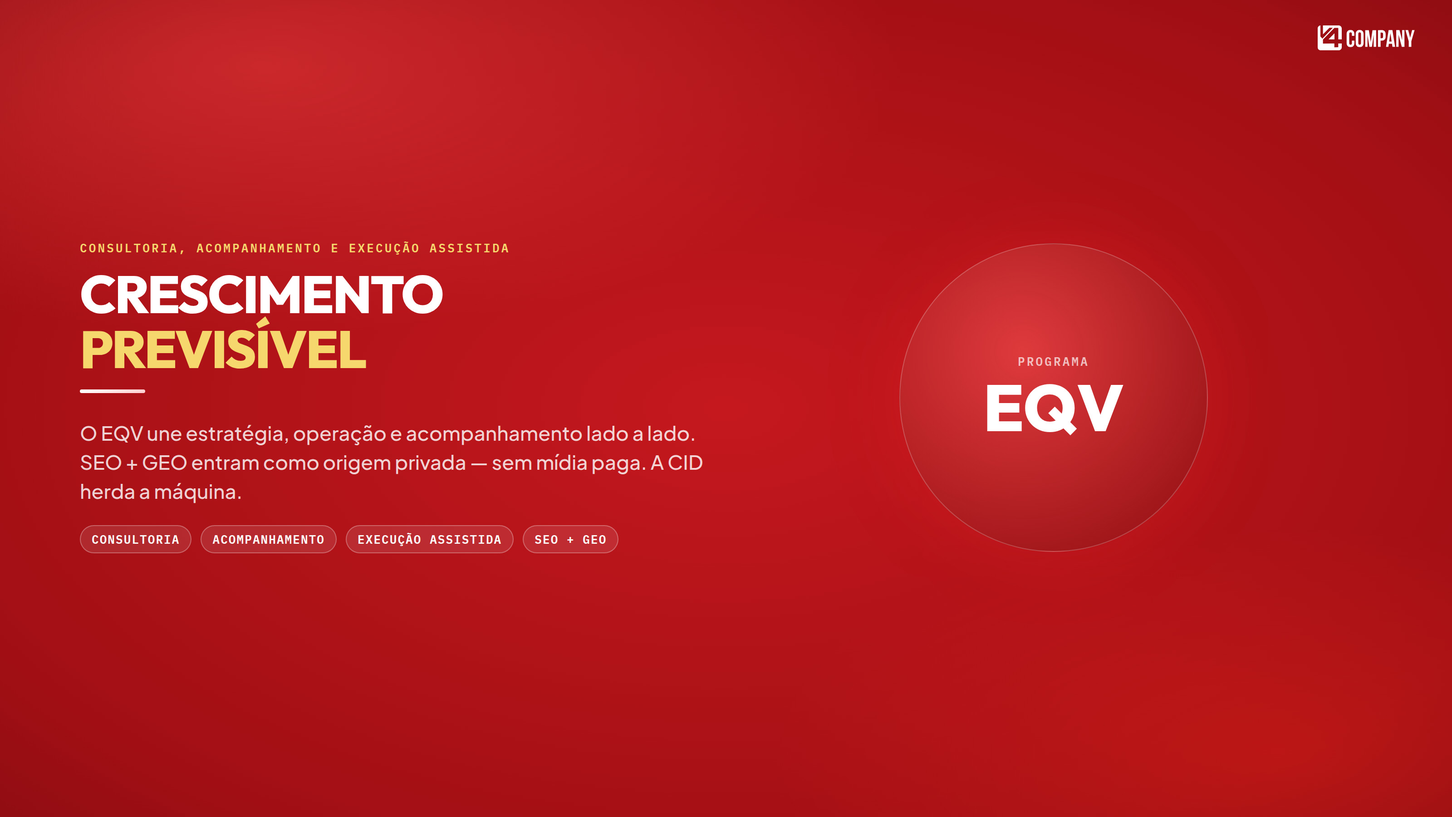
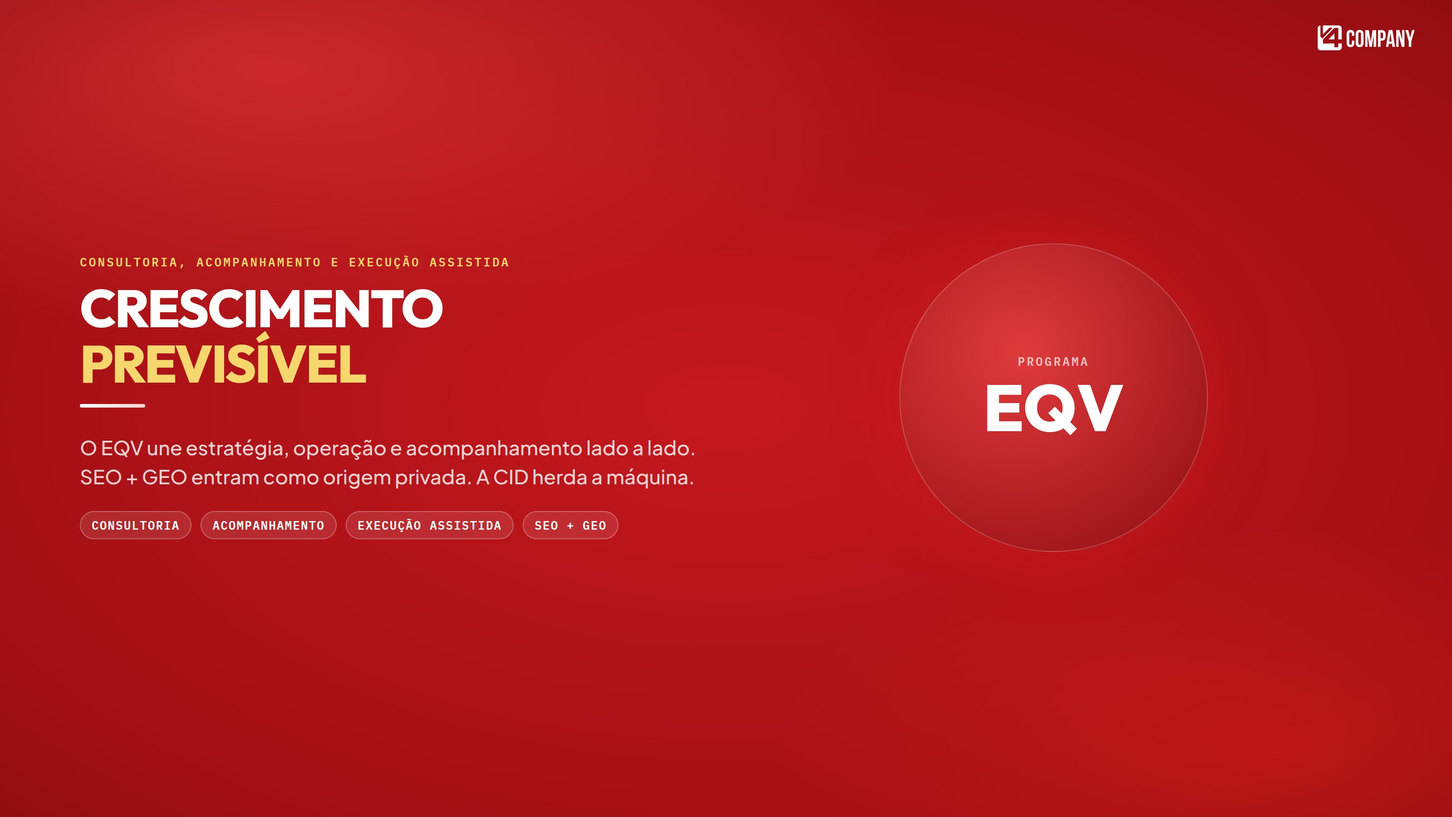
Remove paid-media mentions from the CID client deck.
Drop copy that told the client they do not invest in ads; recapture the affected slides.

Changed region(s): [[0.0312, 0.28, 0.5, 0.6844]]

diff --git a/cid/slides.html b/cid/slides.html
@@ -191,7 +191,7 @@
         <svg class="v4-mark" fill="white" xmlns="http://www.w3.org/2000/svg" viewBox="0 0 77 20"><path fill="#fff" d="M33.023 3.575c-2.001.003-3.093 1.21-3.09 3.32l.008 6.858c.003 2.11 1.098 3.315 3.1 3.312 2-.003 3.092-1.21 3.09-3.32l-.009-6.858c-.003-2.11-1.097-3.315-3.099-3.312zm.015 11.606c-.649.001-1.057-.356-1.058-1.298l-.009-7.122c-.001-.942.406-1.3 1.055-1.302.648 0 1.057.357 1.058 1.299l.009 7.122c.001.942-.407 1.3-1.055 1.301zm-6.1-3.176l.002 1.884c.001.942-.406 1.282-1.055 1.283-.648 0-1.056-.338-1.058-1.28l-.009-7.122c-.001-.942.406-1.3 1.055-1.302.648 0 1.057.357 1.058 1.299l.002 1.413 1.927-.002-.002-1.281c-.002-2.11-1.041-3.315-3.043-3.313-2 .003-3.037 1.21-3.034 3.32l.008 6.859c.003 2.11 1.042 3.314 3.043 3.312 2.002-.003 3.038-1.21 3.035-3.32l-.002-1.752-1.927.002zM13.055 6.352L8.68 10.813c-.06.062-.017.166.067.166l4.382-.006a.096.096 0 00.096-.097l-.006-4.456c0-.087-.103-.13-.163-.068zm5.862 7.88l-2.687.004a.035.035 0 00-.035.035l.004 2.879c0 .02-.015.035-.035.035l-3.01.004a.035.035 0 01-.034-.035l-.004-2.879a.035.035 0 00-.034-.035l-8.796.012a.141.141 0 01-.14-.142l-.003-2.624v-.004a.795.795 0 01.223-.588l8.758-8.928a.035.035 0 01.025-.01l2.846-.004c.005 0 .009.001.014.003a.367.367 0 01.216.348l.01 8.677c0 .019.017.035.036.035l2.641-.004a.035.035 0 00.035-.035l-.011-8.5c-.002-1.364-1.1-2.478-2.442-2.476L4.18.016a.035.035 0 00-.034.036l.008 6.856c0 .031.037.047.06.025l4.994-5.064a.034.034 0 01.024-.01l2.603-.003c.03 0 .046.037.025.06l-8.118 8.41a.034.034 0 01-.049 0l-1.529-1.55a.036.036 0 01-.01-.026L2.143.074A.035.035 0 002.104.04C.976.185.086 1.131 0 2.294v5.972l.011 8.9a2.48 2.48 0 001.937 2.424h14.974c1.15-.199 2.034-1.224 2.032-2.448l-.003-2.873a.035.035 0 00-.035-.036zM66.47 3.682l.01 7.895-2.104-7.892-2.557.003.017 13.19 1.834-.003-.012-9.553 2.55 9.55 2.094-.004-.016-13.188-1.816.002zm-23.33.031l-1.378 9.366-1.513-9.362-2.835.003.017 13.19 1.779-.003-.012-9.327 1.532 9.325 1.927-.003 1.396-9.46.012 9.458 1.928-.002-.017-13.19-2.835.005h-.001zm33.133-.043l-1.946.002-1.549 6.013-1.564-6.009-2.131.003 2.587 8.814.005 4.371 2.039-.003-.006-4.37 2.565-8.821zm-20.44.026l-2.058 13.192 1.871-.003.35-2.393 2.501-.003.355 2.392 2.057-.003-2.092-13.186-2.983.004zm.42 9.005l.974-6.67.99 6.668-1.964.002zm-5.793-8.998l-3.002.004.017 13.189 2.038-.003-.006-4.955.964-.002c2.038-.002 3.037-1.153 3.035-3.263l-.003-1.715c-.002-2.11-1.005-3.258-3.043-3.255zm.008 6.35h-.964L49.5 5.589l.964-.001c.648-.001 1.001.3 1.002 1.242l.003 1.978c.001.942-.35 1.245-1 1.245z"/></svg>
         <p class="cover-client">CID — Clínica de Serviços Médicos &nbsp;×&nbsp; V4 Company</p>
         <h1 style="margin-top:48px;max-width:1200px;">Empresa que <span class="gold">Vende</span></h1>
-        <p class="cover-sub">Consultoria, acompanhamento e execução assistida + origem orgânica (SEO + GEO) — um ciclo de 6 meses para a CID vender com método, sem verba de mídia.</p>
+        <p class="cover-sub">Consultoria, acompanhamento e execução assistida + origem orgânica (SEO + GEO) — um ciclo de 6 meses para a CID vender com método.</p>
         <div class="process-bar">
           <span>Consultoria</span>
           <span>Acompanhamento</span>
@@ -207,7 +207,7 @@
             <p class="eyebrow">Consultoria, acompanhamento e execução assistida</p>
             <h2>CRESCIMENTO<br><span class="gold">PREVISÍVEL</span></h2>
             <div class="line"></div>
-            <p class="lead">O EQV une estratégia, operação e acompanhamento lado a lado. SEO + GEO entram como origem privada — sem mídia paga. A CID herda a máquina.</p>
+            <p class="lead">O EQV une estratégia, operação e acompanhamento lado a lado. SEO + GEO entram como origem privada. A CID herda a máquina.</p>
             <div class="tags"><i>Consultoria</i><i>Acompanhamento</i><i>Execução assistida</i><i>SEO + GEO</i></div>
           </div>
           <div class="bubble"><div><div class="l">Programa</div><div class="e">EQV</div></div></div>
@@ -218,7 +218,7 @@
         <svg class="v4-mark" fill="white" xmlns="http://www.w3.org/2000/svg" viewBox="0 0 77 20"><path fill="#fff" d="M33.023 3.575c-2.001.003-3.093 1.21-3.09 3.32l.008 6.858c.003 2.11 1.098 3.315 3.1 3.312 2-.003 3.092-1.21 3.09-3.32l-.009-6.858c-.003-2.11-1.097-3.315-3.099-3.312zm.015 11.606c-.649.001-1.057-.356-1.058-1.298l-.009-7.122c-.001-.942.406-1.3 1.055-1.302.648 0 1.057.357 1.058 1.299l.009 7.122c.001.942-.407 1.3-1.055 1.301zm-6.1-3.176l.002 1.884c.001.942-.406 1.282-1.055 1.283-.648 0-1.056-.338-1.058-1.28l-.009-7.122c-.001-.942.406-1.3 1.055-1.302.648 0 1.057.357 1.058 1.299l.002 1.413 1.927-.002-.002-1.281c-.002-2.11-1.041-3.315-3.043-3.313-2 .003-3.037 1.21-3.034 3.32l.008 6.859c.003 2.11 1.042 3.314 3.043 3.312 2.002-.003 3.038-1.21 3.035-3.32l-.002-1.752-1.927.002zM13.055 6.352L8.68 10.813c-.06.062-.017.166.067.166l4.382-.006a.096.096 0 00.096-.097l-.006-4.456c0-.087-.103-.13-.163-.068zm5.862 7.88l-2.687.004a.035.035 0 00-.035.035l.004 2.879c0 .02-.015.035-.035.035l-3.01.004a.035.035 0 01-.034-.035l-.004-2.879a.035.035 0 00-.034-.035l-8.796.012a.141.141 0 01-.14-.142l-.003-2.624v-.004a.795.795 0 01.223-.588l8.758-8.928a.035.035 0 01.025-.01l2.846-.004c.005 0 .009.001.014.003a.367.367 0 01.216.348l.01 8.677c0 .019.017.035.036.035l2.641-.004a.035.035 0 00.035-.035l-.011-8.5c-.002-1.364-1.1-2.478-2.442-2.476L4.18.016a.035.035 0 00-.034.036l.008 6.856c0 .031.037.047.06.025l4.994-5.064a.034.034 0 01.024-.01l2.603-.003c.03 0 .046.037.025.06l-8.118 8.41a.034.034 0 01-.049 0l-1.529-1.55a.036.036 0 01-.01-.026L2.143.074A.035.035 0 002.104.04C.976.185.086 1.131 0 2.294v5.972l.011 8.9a2.48 2.48 0 001.937 2.424h14.974c1.15-.199 2.034-1.224 2.032-2.448l-.003-2.873a.035.035 0 00-.035-.036zM66.47 3.682l.01 7.895-2.104-7.892-2.557.003.017 13.19 1.834-.003-.012-9.553 2.55 9.55 2.094-.004-.016-13.188-1.816.002zm-23.33.031l-1.378 9.366-1.513-9.362-2.835.003.017 13.19 1.779-.003-.012-9.327 1.532 9.325 1.927-.003 1.396-9.46.012 9.458 1.928-.002-.017-13.19-2.835.005h-.001zm33.133-.043l-1.946.002-1.549 6.013-1.564-6.009-2.131.003 2.587 8.814.005 4.371 2.039-.003-.006-4.37 2.565-8.821zm-20.44.026l-2.058 13.192 1.871-.003.35-2.393 2.501-.003.355 2.392 2.057-.003-2.092-13.186-2.983.004zm.42 9.005l.974-6.67.99 6.668-1.964.002zm-5.793-8.998l-3.002.004.017 13.189 2.038-.003-.006-4.955.964-.002c2.038-.002 3.037-1.153 3.035-3.263l-.003-1.715c-.002-2.11-1.005-3.258-3.043-3.255zm.008 6.35h-.964L49.5 5.589l.964-.001c.648-.001 1.001.3 1.002 1.242l.003 1.978c.001.942-.35 1.245-1 1.245z"/></svg>
         <p class="eyebrow">Empresa que Vende</p>
         <h2>O PROGRAMA</h2>
-        <p class="lead" style="margin-bottom:28px;"><span class="gold">5 pilares</span> que compõem o Empresa que Vende — na CID, a frente de aquisição é SEO + GEO, não mídia paga.</p>
+        <p class="lead" style="margin-bottom:28px;"><span class="gold">5 pilares</span> que compõem o Empresa que Vende — na CID, a frente de aquisição é SEO + GEO.</p>
         <div class="grid-5 pillars">
           <article class="card"><div class="num">01</div><h3>Diagnóstico contínuo</h3><p>Maturidade GTM monitorada. Gargalos identificados a cada ciclo, sem achismo.</p></article>
           <article class="card"><div class="num">02</div><h3>Consultoria estratégica</h3><p><strong style="color:#fff;">1h/mês com consultor V4:</strong> define prioridades e aloca os créditos do squad.</p></article>
@@ -304,7 +304,7 @@
 
       <section class="slide light" data-title="SEO">
         <svg class="v4-mark" fill="#e50914" xmlns="http://www.w3.org/2000/svg" viewBox="0 0 77 20"><path fill="#e50914" d="M33.023 3.575c-2.001.003-3.093 1.21-3.09 3.32l.008 6.858c.003 2.11 1.098 3.315 3.1 3.312 2-.003 3.092-1.21 3.09-3.32l-.009-6.858c-.003-2.11-1.097-3.315-3.099-3.312zm.015 11.606c-.649.001-1.057-.356-1.058-1.298l-.009-7.122c-.001-.942.406-1.3 1.055-1.302.648 0 1.057.357 1.058 1.299l.009 7.122c.001.942-.407 1.3-1.055 1.301zm-6.1-3.176l.002 1.884c.001.942-.406 1.282-1.055 1.283-.648 0-1.056-.338-1.058-1.28l-.009-7.122c-.001-.942.406-1.3 1.055-1.302.648 0 1.057.357 1.058 1.299l.002 1.413 1.927-.002-.002-1.281c-.002-2.11-1.041-3.315-3.043-3.313-2 .003-3.037 1.21-3.034 3.32l.008 6.859c.003 2.11 1.042 3.314 3.043 3.312 2.002-.003 3.038-1.21 3.035-3.32l-.002-1.752-1.927.002zM13.055 6.352L8.68 10.813c-.06.062-.017.166.067.166l4.382-.006a.096.096 0 00.096-.097l-.006-4.456c0-.087-.103-.13-.163-.068zm5.862 7.88l-2.687.004a.035.035 0 00-.035.035l.004 2.879c0 .02-.015.035-.035.035l-3.01.004a.035.035 0 01-.034-.035l-.004-2.879a.035.035 0 00-.034-.035l-8.796.012a.141.141 0 01-.14-.142l-.003-2.624v-.004a.795.795 0 01.223-.588l8.758-8.928a.035.035 0 01.025-.01l2.846-.004c.005 0 .009.001.014.003a.367.367 0 01.216.348l.01 8.677c0 .019.017.035.036.035l2.641-.004a.035.035 0 00.035-.035l-.011-8.5c-.002-1.364-1.1-2.478-2.442-2.476L4.18.016a.035.035 0 00-.034.036l.008 6.856c0 .031.037.047.06.025l4.994-5.064a.034.034 0 01.024-.01l2.603-.003c.03 0 .046.037.025.06l-8.118 8.41a.034.034 0 01-.049 0l-1.529-1.55a.036.036 0 01-.01-.026L2.143.074A.035.035 0 002.104.04C.976.185.086 1.131 0 2.294v5.972l.011 8.9a2.48 2.48 0 001.937 2.424h14.974c1.15-.199 2.034-1.224 2.032-2.448l-.003-2.873a.035.035 0 00-.035-.036zM66.47 3.682l.01 7.895-2.104-7.892-2.557.003.017 13.19 1.834-.003-.012-9.553 2.55 9.55 2.094-.004-.016-13.188-1.816.002zm-23.33.031l-1.378 9.366-1.513-9.362-2.835.003.017 13.19 1.779-.003-.012-9.327 1.532 9.325 1.927-.003 1.396-9.46.012 9.458 1.928-.002-.017-13.19-2.835.005h-.001zm33.133-.043l-1.946.002-1.549 6.013-1.564-6.009-2.131.003 2.587 8.814.005 4.371 2.039-.003-.006-4.37 2.565-8.821zm-20.44.026l-2.058 13.192 1.871-.003.35-2.393 2.501-.003.355 2.392 2.057-.003-2.092-13.186-2.983.004zm.42 9.005l.974-6.67.99 6.668-1.964.002zm-5.793-8.998l-3.002.004.017 13.189 2.038-.003-.006-4.955.964-.002c2.038-.002 3.037-1.153 3.035-3.263l-.003-1.715c-.002-2.11-1.005-3.258-3.043-3.255zm.008 6.35h-.964L49.5 5.589l.964-.001c.648-.001 1.001.3 1.002 1.242l.003 1.978c.001.942-.35 1.245-1 1.245z"/></svg>
-        <p class="eyebrow">Sessão 02 · SEO + GEO · origem complementar sem mídia</p>
+        <p class="eyebrow">Sessão 02 · SEO + GEO · origem complementar</p>
         <h2>O SEO É</h2>
         <div class="line"></div>
         <div class="grid-2">
@@ -321,12 +321,12 @@
             <ul class="check">
               <li>Canal de aquisição orgânica — origem privada, fora de licitação e indicação</li>
               <li>Construção de autoridade no longo prazo</li>
-              <li>Redução da dependência de mídia paga — ativo, sem pagar clique</li>
+              <li>Canal próprio — ativo da empresa, que permanece depois do ciclo</li>
             </ul>
           </article>
         </div>
         <div class="grid-4" style="margin-top:18px;">
-          <article class="card"><div class="num">01</div><h3>Previsibilidade</h3><p>Tráfego que não oscila com o leilão.</p></article>
+          <article class="card"><div class="num">01</div><h3>Previsibilidade</h3><p>Tráfego que acumula com consistência.</p></article>
           <article class="card"><div class="num">02</div><h3>Autoridade</h3><p>Referência de gestão — não de mão de obra.</p></article>
           <article class="card"><div class="num">03</div><h3>Redução de CAC</h3><p>Diluição do custo de aquisição no tempo.</p></article>
           <article class="card"><div class="num">04</div><h3>Ativo estratégico</h3><p>Canal próprio. Não some com o contrato.</p></article>
@@ -420,7 +420,7 @@
         <div class="line"></div>
         <div class="split-price">
           <article class="pc"><div class="k">Execução assistida · EQV</div><div class="v">R$ 35.000</div><p>Consultoria + squad + comercial/CRM. 6 meses. A máquina fica na CID.</p></article>
-          <article class="pc"><div class="k">SEO + GEO</div><div class="v">R$ 21.600</div><p>6× R$ 3.600 · conteúdo, intenção e entidade para busca e IA. Sem mídia paga.</p></article>
+          <article class="pc"><div class="k">SEO + GEO</div><div class="v">R$ 21.600</div><p>6× R$ 3.600 · conteúdo, intenção e entidade para busca e IA.</p></article>
           <div class="eq">=</div>
           <article class="pc" style="background:rgba(0,0,0,.28);"><div class="k">Ambos juntos</div><div class="v" style="font-size:36px;">6× R$ 9.433,33</div><p>Cartão de crédito · 6 meses · soma cheia R$ 56.600,00</p></article>
         </div>

diff --git a/cid/index.html b/cid/index.html
@@ -5,7 +5,7 @@
   <meta name="viewport" content="width=device-width, initial-scale=1">
   <meta http-equiv="Cache-Control" content="no-cache, no-store, must-revalidate">
   <meta http-equiv="Pragma" content="no-cache">
-  <meta name="eqv-deck-version" content="cid-eqv-seo-geo-hires-2x">
+  <meta name="eqv-deck-version" content="cid-eqv-seo-geo-nomedia">
   <title>CID · Empresa que Vende + SEO + GEO | V4 Company</title>
   <link rel="preconnect" href="https://fonts.googleapis.com">
   <link href="https://fonts.googleapis.com/css2?family=IBM+Plex+Mono:wght@500&display=swap" rel="stylesheet">
@@ -35,24 +35,24 @@
 <body>
   <div id="viewport">
     <main id="deck">
-      <section class="slide" data-title="Capa"><img alt="Capa" src="https://raw.githubusercontent.com/sarapizzico-hue/Sara/cursor/cid-eqv-seo-geo-c256/cid/pages/p01.jpg?v=2x"></section>
-      <section class="slide" data-title="Crescimento previsível"><img alt="Crescimento previsível" src="https://raw.githubusercontent.com/sarapizzico-hue/Sara/cursor/cid-eqv-seo-geo-c256/cid/pages/p02.jpg?v=2x"></section>
-      <section class="slide" data-title="O programa"><img alt="O programa" src="https://raw.githubusercontent.com/sarapizzico-hue/Sara/cursor/cid-eqv-seo-geo-c256/cid/pages/p03.jpg?v=2x"></section>
-      <section class="slide" data-title="Vender"><img alt="Vender" src="https://raw.githubusercontent.com/sarapizzico-hue/Sara/cursor/cid-eqv-seo-geo-c256/cid/pages/p04.jpg?v=2x"></section>
-      <section class="slide" data-title="Para quem é"><img alt="Para quem é" src="https://raw.githubusercontent.com/sarapizzico-hue/Sara/cursor/cid-eqv-seo-geo-c256/cid/pages/p05.jpg?v=2x"></section>
-      <section class="slide" data-title="A jornada"><img alt="A jornada" src="https://raw.githubusercontent.com/sarapizzico-hue/Sara/cursor/cid-eqv-seo-geo-c256/cid/pages/p06.jpg?v=2x"></section>
-      <section class="slide" data-title="3 sessões"><img alt="3 sessões" src="https://raw.githubusercontent.com/sarapizzico-hue/Sara/cursor/cid-eqv-seo-geo-c256/cid/pages/p07.jpg?v=2x"></section>
-      <section class="slide" data-title="Sessão 01"><img alt="Sessão 01" src="https://raw.githubusercontent.com/sarapizzico-hue/Sara/cursor/cid-eqv-seo-geo-c256/cid/pages/p08.jpg?v=2x"></section>
-      <section class="slide" data-title="SEO"><img alt="SEO" src="https://raw.githubusercontent.com/sarapizzico-hue/Sara/cursor/cid-eqv-seo-geo-c256/cid/pages/p09.jpg?v=2x"></section>
-      <section class="slide" data-title="GEO"><img alt="GEO" src="https://raw.githubusercontent.com/sarapizzico-hue/Sara/cursor/cid-eqv-seo-geo-c256/cid/pages/p10.jpg?v=2x"></section>
-      <section class="slide" data-title="Sessão 03"><img alt="Sessão 03" src="https://raw.githubusercontent.com/sarapizzico-hue/Sara/cursor/cid-eqv-seo-geo-c256/cid/pages/p11.jpg?v=2x"></section>
-      <section class="slide" data-title="Fábrica de Receita"><img alt="Fábrica de Receita" src="https://raw.githubusercontent.com/sarapizzico-hue/Sara/cursor/cid-eqv-seo-geo-c256/cid/pages/p12.jpg?v=2x"></section>
-      <section class="slide" data-title="Comunidade"><img alt="Comunidade" src="https://raw.githubusercontent.com/sarapizzico-hue/Sara/cursor/cid-eqv-seo-geo-c256/cid/pages/p13.jpg?v=2x"></section>
-      <section class="slide" data-title="Por que a V4"><img alt="Por que a V4" src="https://raw.githubusercontent.com/sarapizzico-hue/Sara/cursor/cid-eqv-seo-geo-c256/cid/pages/p14.jpg?v=2x"></section>
-      <section class="slide" data-title="Por que a V4 · pilares"><img alt="Por que a V4 · pilares" src="https://raw.githubusercontent.com/sarapizzico-hue/Sara/cursor/cid-eqv-seo-geo-c256/cid/pages/p15.jpg?v=2x"></section>
-      <section class="slide" data-title="Investimento · separados"><img alt="Investimento · separados" src="https://raw.githubusercontent.com/sarapizzico-hue/Sara/cursor/cid-eqv-seo-geo-c256/cid/pages/p16.jpg?v=2x"></section>
-      <section class="slide" data-title="Investimento · pacote"><img alt="Investimento · pacote" src="https://raw.githubusercontent.com/sarapizzico-hue/Sara/cursor/cid-eqv-seo-geo-c256/cid/pages/p17.jpg?v=2x"></section>
-      <section class="slide" data-title="Garantia"><img alt="Garantia" src="https://raw.githubusercontent.com/sarapizzico-hue/Sara/cursor/cid-eqv-seo-geo-c256/cid/pages/p18.jpg?v=2x"></section>
+      <section class="slide" data-title="Capa"><img alt="Capa" src="https://raw.githubusercontent.com/sarapizzico-hue/Sara/cursor/cid-eqv-seo-geo-c256/cid/pages/p01.jpg?v=nomedia"></section>
+      <section class="slide" data-title="Crescimento previsível"><img alt="Crescimento previsível" src="https://raw.githubusercontent.com/sarapizzico-hue/Sara/cursor/cid-eqv-seo-geo-c256/cid/pages/p02.jpg?v=nomedia"></section>
+      <section class="slide" data-title="O programa"><img alt="O programa" src="https://raw.githubusercontent.com/sarapizzico-hue/Sara/cursor/cid-eqv-seo-geo-c256/cid/pages/p03.jpg?v=nomedia"></section>
+      <section class="slide" data-title="Vender"><img alt="Vender" src="https://raw.githubusercontent.com/sarapizzico-hue/Sara/cursor/cid-eqv-seo-geo-c256/cid/pages/p04.jpg?v=nomedia"></section>
+      <section class="slide" data-title="Para quem é"><img alt="Para quem é" src="https://raw.githubusercontent.com/sarapizzico-hue/Sara/cursor/cid-eqv-seo-geo-c256/cid/pages/p05.jpg?v=nomedia"></section>
+      <section class="slide" data-title="A jornada"><img alt="A jornada" src="https://raw.githubusercontent.com/sarapizzico-hue/Sara/cursor/cid-eqv-seo-geo-c256/cid/pages/p06.jpg?v=nomedia"></section>
+      <section class="slide" data-title="3 sessões"><img alt="3 sessões" src="https://raw.githubusercontent.com/sarapizzico-hue/Sara/cursor/cid-eqv-seo-geo-c256/cid/pages/p07.jpg?v=nomedia"></section>
+      <section class="slide" data-title="Sessão 01"><img alt="Sessão 01" src="https://raw.githubusercontent.com/sarapizzico-hue/Sara/cursor/cid-eqv-seo-geo-c256/cid/pages/p08.jpg?v=nomedia"></section>
+      <section class="slide" data-title="SEO"><img alt="SEO" src="https://raw.githubusercontent.com/sarapizzico-hue/Sara/cursor/cid-eqv-seo-geo-c256/cid/pages/p09.jpg?v=nomedia"></section>
+      <section class="slide" data-title="GEO"><img alt="GEO" src="https://raw.githubusercontent.com/sarapizzico-hue/Sara/cursor/cid-eqv-seo-geo-c256/cid/pages/p10.jpg?v=nomedia"></section>
+      <section class="slide" data-title="Sessão 03"><img alt="Sessão 03" src="https://raw.githubusercontent.com/sarapizzico-hue/Sara/cursor/cid-eqv-seo-geo-c256/cid/pages/p11.jpg?v=nomedia"></section>
+      <section class="slide" data-title="Fábrica de Receita"><img alt="Fábrica de Receita" src="https://raw.githubusercontent.com/sarapizzico-hue/Sara/cursor/cid-eqv-seo-geo-c256/cid/pages/p12.jpg?v=nomedia"></section>
+      <section class="slide" data-title="Comunidade"><img alt="Comunidade" src="https://raw.githubusercontent.com/sarapizzico-hue/Sara/cursor/cid-eqv-seo-geo-c256/cid/pages/p13.jpg?v=nomedia"></section>
+      <section class="slide" data-title="Por que a V4"><img alt="Por que a V4" src="https://raw.githubusercontent.com/sarapizzico-hue/Sara/cursor/cid-eqv-seo-geo-c256/cid/pages/p14.jpg?v=nomedia"></section>
+      <section class="slide" data-title="Por que a V4 · pilares"><img alt="Por que a V4 · pilares" src="https://raw.githubusercontent.com/sarapizzico-hue/Sara/cursor/cid-eqv-seo-geo-c256/cid/pages/p15.jpg?v=nomedia"></section>
+      <section class="slide" data-title="Investimento · separados"><img alt="Investimento · separados" src="https://raw.githubusercontent.com/sarapizzico-hue/Sara/cursor/cid-eqv-seo-geo-c256/cid/pages/p16.jpg?v=nomedia"></section>
+      <section class="slide" data-title="Investimento · pacote"><img alt="Investimento · pacote" src="https://raw.githubusercontent.com/sarapizzico-hue/Sara/cursor/cid-eqv-seo-geo-c256/cid/pages/p17.jpg?v=nomedia"></section>
+      <section class="slide" data-title="Garantia"><img alt="Garantia" src="https://raw.githubusercontent.com/sarapizzico-hue/Sara/cursor/cid-eqv-seo-geo-c256/cid/pages/p18.jpg?v=nomedia"></section>
       <div class="slide-counter" id="slideCounter">01 / 18</div>
       <nav class="navigation" aria-label="Navegação">
         <button class="nav-btn" id="prevBtn" aria-label="Anterior"><svg viewBox="0 0 24 24"><path d="M15 18l-6-6 6-6"/></svg></button>

diff --git a/cid/documento.html b/cid/documento.html
@@ -60,15 +60,15 @@
 <p class="cover-kicker">PROPOSTA COMERCIAL</p>
 <p class="cover-title">Empresa que Vende + SEO Growth</p>
 <p class="cover-sub">CID — Clínica de Serviços Médicos  ×  V4 Company</p>
-<p class="cover-lead">Consultoria, acompanhamento e execução assistida + origem orgânica. Ciclo de 6 meses no cartão de crédito. Sem verba de mídia paga.</p>
+<p class="cover-lead">Consultoria, acompanhamento e execução assistida + origem orgânica. Ciclo de 6 meses no cartão de crédito.</p>
 </td></tr></table>
 <table class="grid" border="1" cellspacing="0" cellpadding="0"><thead><tr><th>Campo</th><th>Informação</th></tr></thead><tbody><tr><td style="font-weight:700;">Cliente</td><td style="">CID — Clínica de Serviços Médicos</td></tr><tr><td style="font-weight:700;">Produto 1</td><td style="">Empresa que Vende (EQV) — execução assistida</td></tr><tr><td style="font-weight:700;">Produto 2</td><td style="">SEO Growth — conteúdo + links + previsibilidade (6 meses)</td></tr><tr><td style="font-weight:700;">Prazo</td><td style="">6 meses  ·  5 fases  ·  squad (Conteúdo, SEO Growth, Comercial, CRM)</td></tr><tr><td style="font-weight:700;">Separados</td><td style="">EQV R$ 35.000,00  ·  SEO Growth R$ 21.600,00 (6× R$ 3.600)</td></tr><tr><td style="font-weight:700;">Ambos juntos (soma)</td><td style="">6× R$ 9.433,33 no cartão  ·  TCV R$ 56.600,00</td></tr><tr><td style="font-weight:700;">Pacote · condição comercial</td><td style="">6× R$ 5.418,57 no cartão de crédito  ·  TCV R$ 32.511,42</td></tr><tr><td style="font-weight:700;">Condução</td><td style="">V4 Company  ·  consultor estratégico (1h/mês) + squad de execução assistida</td></tr><tr><td style="font-weight:700;">Incluso</td><td style="">Comunidade, monitoria coletiva mensal, conteúdo semanal e Fábrica de Receita (imersão presencial anual)</td></tr><tr><td style="font-weight:700;">Garantia</td><td style="">30 dias de serviço — reembolso incondicional se a entrega não fizer sentido</td></tr></tbody></table>
-<table class="callout" border="0" cellspacing="0" cellpadding="0"><tr><td><p class="callout-label">LEITURA CENTRAL</p><p>A V4 não executa no lugar da CID: estrutura o negócio, treina o time e acompanha a execução. Quem opera é a CID. A máquina fica na empresa quando o ciclo acaba. A ordem é clareza → sistema → execução. SEO Growth entra como origem complementar, sem mídia paga.</p></td></tr></table>
+<table class="callout" border="0" cellspacing="0" cellpadding="0"><tr><td><p class="callout-label">LEITURA CENTRAL</p><p>A V4 não executa no lugar da CID: estrutura o negócio, treina o time e acompanha a execução. Quem opera é a CID. A máquina fica na empresa quando o ciclo acaba. A ordem é clareza → sistema → execução. SEO Growth entra como origem complementar.</p></td></tr></table>
 <h1>1. Objetivo</h1>
-<p class="justify">Instalar, em 6 meses, o método para a CID vender com previsibilidade: diagnóstico contínuo de maturidade GTM, consultoria estratégica mensal, execução assistida (conteúdo, comercial e CRM) e origem complementar em SEO Growth — sem verba de mídia paga. Comunidade de pares e imersão presencial da Fábrica de Receita.</p>
+<p class="justify">Instalar, em 6 meses, o método para a CID vender com previsibilidade: diagnóstico contínuo de maturidade GTM, consultoria estratégica mensal, execução assistida (conteúdo, comercial e CRM) e origem complementar em SEO Growth. Comunidade de pares e imersão presencial da Fábrica de Receita.</p>
 <p class="justify">O resultado esperado não é um PDF para a gaveta nem uma agência que some quando o contrato acaba. É o time operando com tese, artefato e cadência: conteúdo que gera demanda, comercial que fecha, CRM que governa o pipeline, e a CID aparecendo quando RH e Compras pesquisam — inclusive quando perguntam para a IA.</p>
 <h1>2. O problema que o programa resolve</h1>
-<table class="grid" border="1" cellspacing="0" cellpadding="0"><thead><tr><th>Sintoma</th><th>Efeito na operação</th></tr></thead><tbody><tr><td style="font-weight:700;">Receita imprevisível / concentração</td><td style="">O mês é esforço, não método. 90% em um contrato não tem plano B privado.</td></tr><tr><td style="font-weight:700;">Processo na cabeça de uma pessoa</td><td style="">O comercial é o sócio Leonardo. Sem sistema, não se repete.</td></tr><tr><td style="font-weight:700;">Marketing no achismo / nunca investiu em mídia</td><td style="">Canal, conteúdo e origem sem tese. Mídia paga não cabe na margem.</td></tr><tr><td style="font-weight:700;">Agência executa — você não aprende</td><td style="">Quando o contrato acaba, o resultado vai junto.</td></tr><tr><td style="font-weight:700;">Comercial amador</td><td style="">Script, follow-up e pipeline improvisados. A proposta não tem business case.</td></tr><tr><td style="font-weight:700;">Posicionamento frouxo</td><td style="">O mercado vê mão de obra avulsa, não gestão e continuidade.</td></tr></tbody></table>
+<table class="grid" border="1" cellspacing="0" cellpadding="0"><thead><tr><th>Sintoma</th><th>Efeito na operação</th></tr></thead><tbody><tr><td style="font-weight:700;">Receita imprevisível / concentração</td><td style="">O mês é esforço, não método. 90% em um contrato não tem plano B privado.</td></tr><tr><td style="font-weight:700;">Processo na cabeça de uma pessoa</td><td style="">O comercial é o sócio Leonardo. Sem sistema, não se repete.</td></tr><tr><td style="font-weight:700;">Marketing no achismo</td><td style="">Canal, conteúdo e origem sem tese. Sem cadência nem indicador.</td></tr><tr><td style="font-weight:700;">Agência executa — você não aprende</td><td style="">Quando o contrato acaba, o resultado vai junto.</td></tr><tr><td style="font-weight:700;">Comercial amador</td><td style="">Script, follow-up e pipeline improvisados. A proposta não tem business case.</td></tr><tr><td style="font-weight:700;">Posicionamento frouxo</td><td style="">O mercado vê mão de obra avulsa, não gestão e continuidade.</td></tr></tbody></table>
 <h1>3. A solução</h1>
 <p class="justify">A ordem de construção é clareza → sistema → execução. Sem método, origem vira aposta. Com método, receita vira consequência.</p>
 <table class="grid" border="1" cellspacing="0" cellpadding="0"><thead><tr><th>Pilar</th><th>O que instala</th></tr></thead><tbody><tr><td style="font-weight:700;">01 · Diagnóstico contínuo</td><td style="">Maturidade GTM monitorada. Gargalos identificados a cada ciclo.</td></tr><tr><td style="font-weight:700;">02 · Consultoria estratégica</td><td style="">1h/mês com consultor V4: prioridades e créditos do squad.</td></tr><tr><td style="font-weight:700;">03 · Execução assistida</td><td style="">Squad: Conteúdo, SEO Growth, Comercial e CRM. Quem opera é a CID.</td></tr><tr><td style="font-weight:700;">04 · Comunidade</td><td style="">Peers, lives mensais e grupo fechado no WhatsApp.</td></tr><tr><td style="font-weight:700;">05 · Fábrica de Receita</td><td style="">Imersão presencial anual: hot seats, cases e workshops.</td></tr></tbody></table>
@@ -105,7 +105,7 @@
 <p class="price-month">6× R$ 5.418,57 no cartão de crédito</p>
 <p>TCV do pacote: R$ 32.511,42.</p>
 <p>Se fossem separados: EQV R$ 35.000,00 + SEO Growth R$ 21.600,00 (6× R$ 3.600) = R$ 56.600,00.</p>
-<p>Ciclo de 6 meses. A máquina fica no time. Não é aluguel de agência. Mídia paga não entra neste desenho.</p>
+<p>Ciclo de 6 meses. A máquina fica no time. Não é aluguel de agência.</p>
 </td>
 </tr>
 </table>

diff --git a/gerar_documento_cid_eqv.py b/gerar_documento_cid_eqv.py
@@ -295,7 +295,7 @@ def build_docx():
     p4 = c.add_paragraph()
     r = p4.add_run(
         "Consultoria, acompanhamento e execução assistida + origem orgânica. "
-        "Ciclo de 6 meses no cartão de crédito. Sem verba de mídia paga."
+        "Ciclo de 6 meses no cartão de crédito."
     )
     set_run_font(r, size=12, color="E8D0D0")
 
@@ -323,7 +323,7 @@ def build_docx():
         "Leitura central",
         "A V4 não executa no lugar da CID: estrutura o negócio, treina o time e acompanha a execução. "
         "Quem opera é a CID. A máquina fica na empresa quando o ciclo acaba. "
-        "A ordem é clareza → sistema → execução. SEO Growth entra como origem complementar, sem mídia paga.",
+        "A ordem é clareza → sistema → execução. SEO Growth entra como origem complementar.",
     )
 
     add_heading_styled(doc, "1. Objetivo")
@@ -331,7 +331,7 @@ def build_docx():
         doc,
         "Instalar, em 6 meses, o método para a CID vender com previsibilidade: diagnóstico contínuo "
         "de maturidade GTM, consultoria estratégica mensal, execução assistida (conteúdo, comercial e CRM) "
-        "e origem complementar em SEO Growth — sem verba de mídia paga. Comunidade de pares e imersão "
+        "e origem complementar em SEO Growth. Comunidade de pares e imersão "
         "presencial da Fábrica de Receita.",
         align="justify",
     )
@@ -358,8 +358,8 @@ def build_docx():
                 "O comercial é o sócio Leonardo. Sem sistema, não se repete.",
             ],
             [
-                "Marketing no achismo / nunca investiu em mídia",
-                "Canal, conteúdo e origem sem tese. Mídia paga não cabe na margem.",
+                "Marketing no achismo",
+                "Canal, conteúdo e origem sem tese. Sem cadência nem indicador.",
             ],
             [
                 "Agência executa — você não aprende",
@@ -530,7 +530,7 @@ def build_docx():
     )
     add_cell_run(
         right,
-        "Ciclo de 6 meses. A máquina fica no time. Não é aluguel de agência. Mídia paga não entra neste desenho.",
+        "Ciclo de 6 meses. A máquina fica no time. Não é aluguel de agência.",
         size=10,
         color=MUT,
     )
@@ -620,7 +620,7 @@ def build_html():
 <p class="cover-kicker">PROPOSTA COMERCIAL</p>
 <p class="cover-title">Empresa que Vende + SEO Growth</p>
 <p class="cover-sub">CID — Clínica de Serviços Médicos  ×  V4 Company</p>
-<p class="cover-lead">Consultoria, acompanhamento e execução assistida + origem orgânica. Ciclo de 6 meses no cartão de crédito. Sem verba de mídia paga.</p>
+<p class="cover-lead">Consultoria, acompanhamento e execução assistida + origem orgânica. Ciclo de 6 meses no cartão de crédito.</p>
 </td></tr></table>""",
         html_table(
             ["Campo", "Informação"],
@@ -641,13 +641,13 @@ def build_html():
             "Leitura central",
             "A V4 não executa no lugar da CID: estrutura o negócio, treina o time e acompanha a execução. "
             "Quem opera é a CID. A máquina fica na empresa quando o ciclo acaba. "
-            "A ordem é clareza → sistema → execução. SEO Growth entra como origem complementar, sem mídia paga.",
+            "A ordem é clareza → sistema → execução. SEO Growth entra como origem complementar.",
         ),
         h1("1. Objetivo"),
         p(
             "Instalar, em 6 meses, o método para a CID vender com previsibilidade: diagnóstico contínuo "
             "de maturidade GTM, consultoria estratégica mensal, execução assistida (conteúdo, comercial e CRM) "
-            "e origem complementar em SEO Growth — sem verba de mídia paga. Comunidade de pares e imersão "
+            "e origem complementar em SEO Growth. Comunidade de pares e imersão "
             "presencial da Fábrica de Receita."
         ),
         p(
@@ -662,7 +662,7 @@ def build_html():
             [
                 ["Receita imprevisível / concentração", "O mês é esforço, não método. 90% em um contrato não tem plano B privado."],
                 ["Processo na cabeça de uma pessoa", "O comercial é o sócio Leonardo. Sem sistema, não se repete."],
-                ["Marketing no achismo / nunca investiu em mídia", "Canal, conteúdo e origem sem tese. Mídia paga não cabe na margem."],
+                ["Marketing no achismo", "Canal, conteúdo e origem sem tese. Sem cadência nem indicador."],
                 ["Agência executa — você não aprende", "Quando o contrato acaba, o resultado vai junto."],
                 ["Comercial amador", "Script, follow-up e pipeline improvisados. A proposta não tem business case."],
                 ["Posicionamento frouxo", "O mercado vê mão de obra avulsa, não gestão e continuidade."],
@@ -775,7 +775,7 @@ def build_html():
 <p class="price-month">6× R$ 5.418,57 no cartão de crédito</p>
 <p>TCV do pacote: R$ 32.511,42.</p>
 <p>Se fossem separados: EQV R$ 35.000,00 + SEO Growth R$ 21.600,00 (6× R$ 3.600) = R$ 56.600,00.</p>
-<p>Ciclo de 6 meses. A máquina fica no time. Não é aluguel de agência. Mídia paga não entra neste desenho.</p>
+<p>Ciclo de 6 meses. A máquina fica no time. Não é aluguel de agência.</p>
 </td>
 </tr>
 </table>""",
